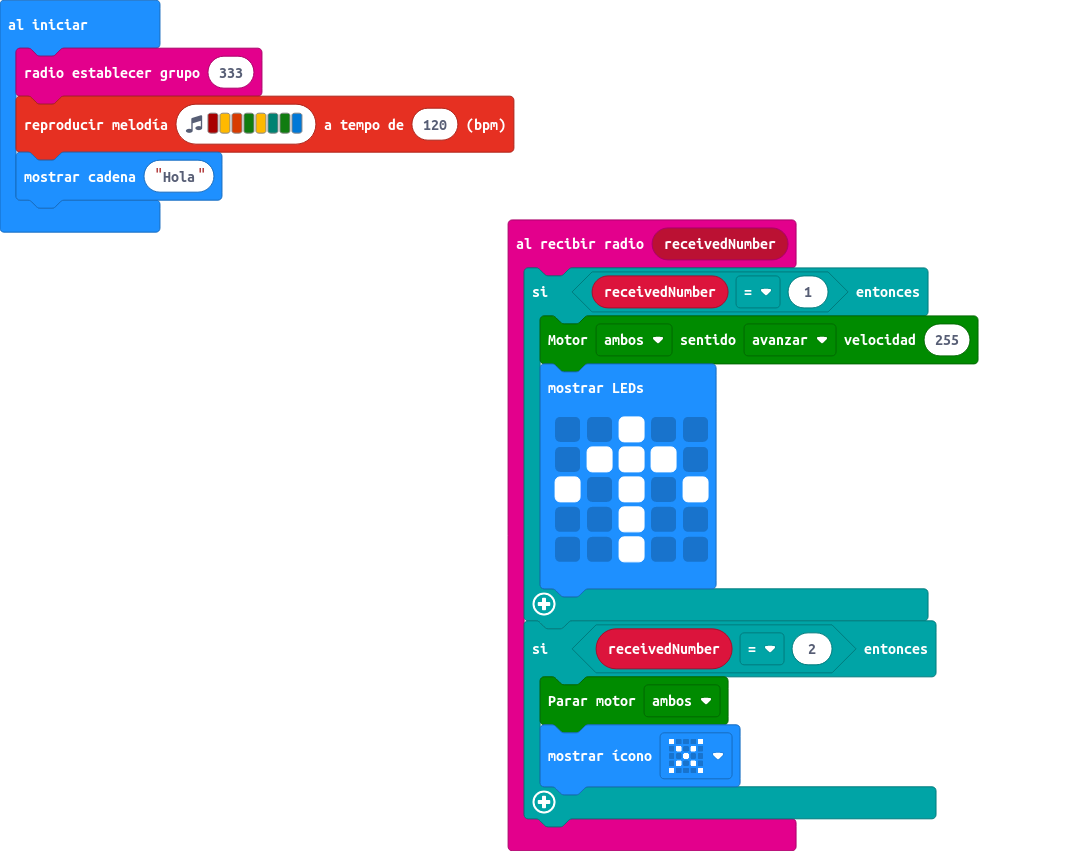
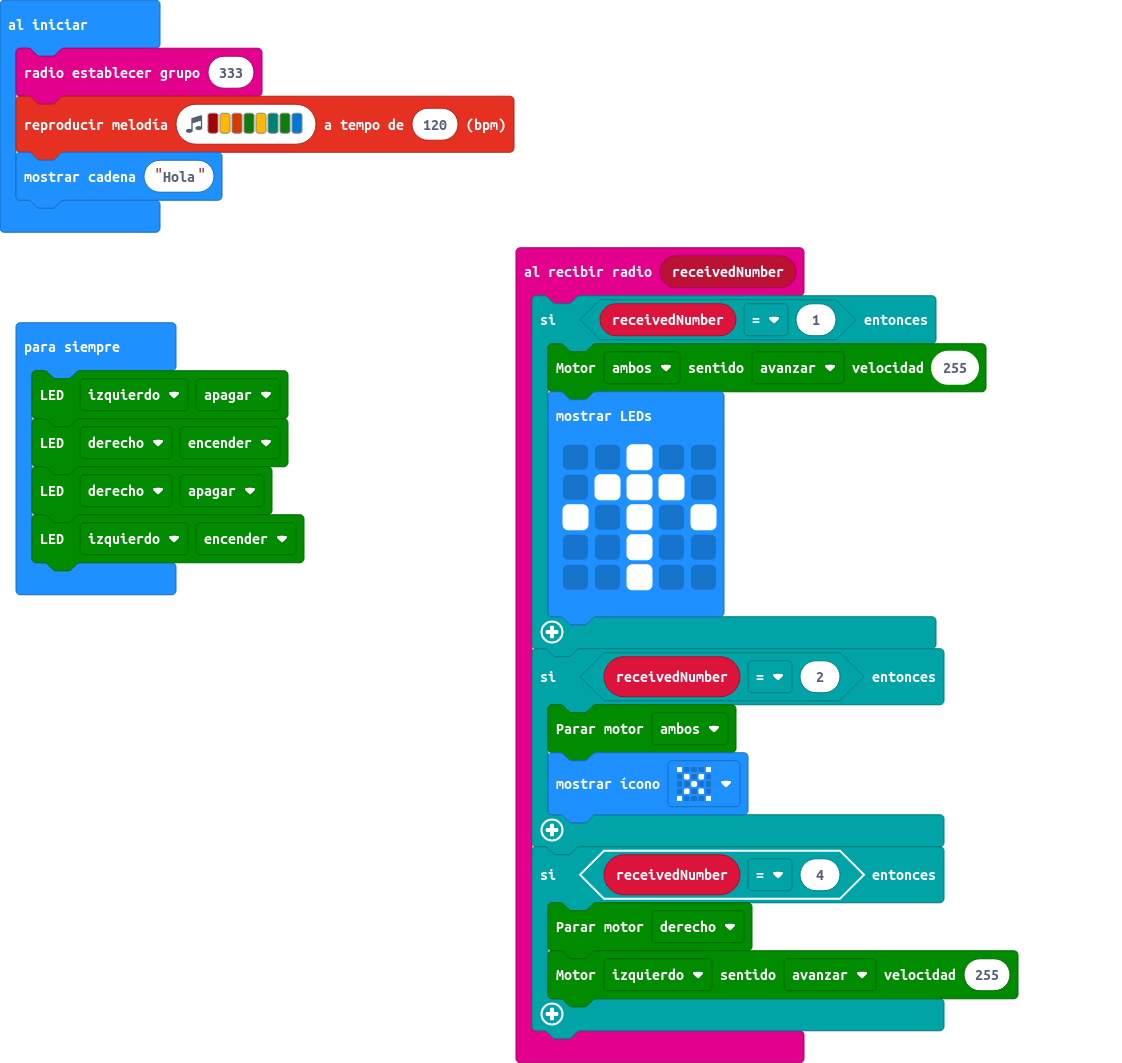
Escriba un nombre para su proyecto Id333uwy7y3

diff --git a/main.ts b/main.ts
@@ -13,7 +13,17 @@ radio.onReceivedNumber(function (receivedNumber) {
         maqueen.motorStop(maqueen.Motors.All)
         basic.showIcon(IconNames.No)
     }
+    if (receivedNumber == 4) {
+        maqueen.motorStop(maqueen.Motors.M2)
+        maqueen.motorRun(maqueen.Motors.M1, maqueen.Dir.CW, 255)
+    }
 })
 radio.setGroup(333)
 music.playMelody("C5 A B G A F G E ", 120)
 basic.showString("Hola")
+basic.forever(function () {
+    maqueen.writeLED(maqueen.LED.LEDRight, maqueen.LEDswitch.turnOff)
+    maqueen.writeLED(maqueen.LED.LEDLeft, maqueen.LEDswitch.turnOn)
+    maqueen.writeLED(maqueen.LED.LEDLeft, maqueen.LEDswitch.turnOff)
+    maqueen.writeLED(maqueen.LED.LEDRight, maqueen.LEDswitch.turnOn)
+})
